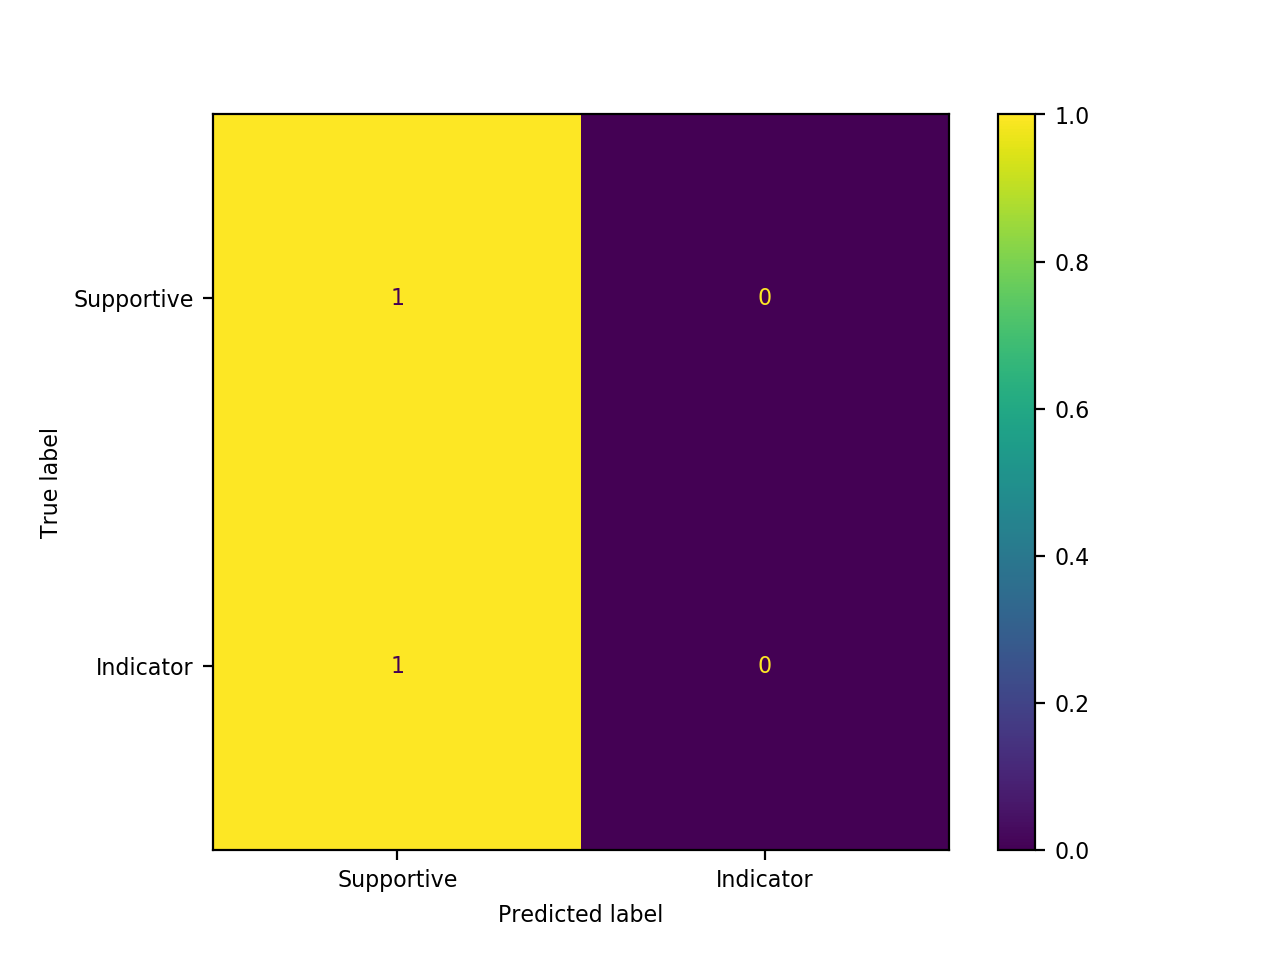
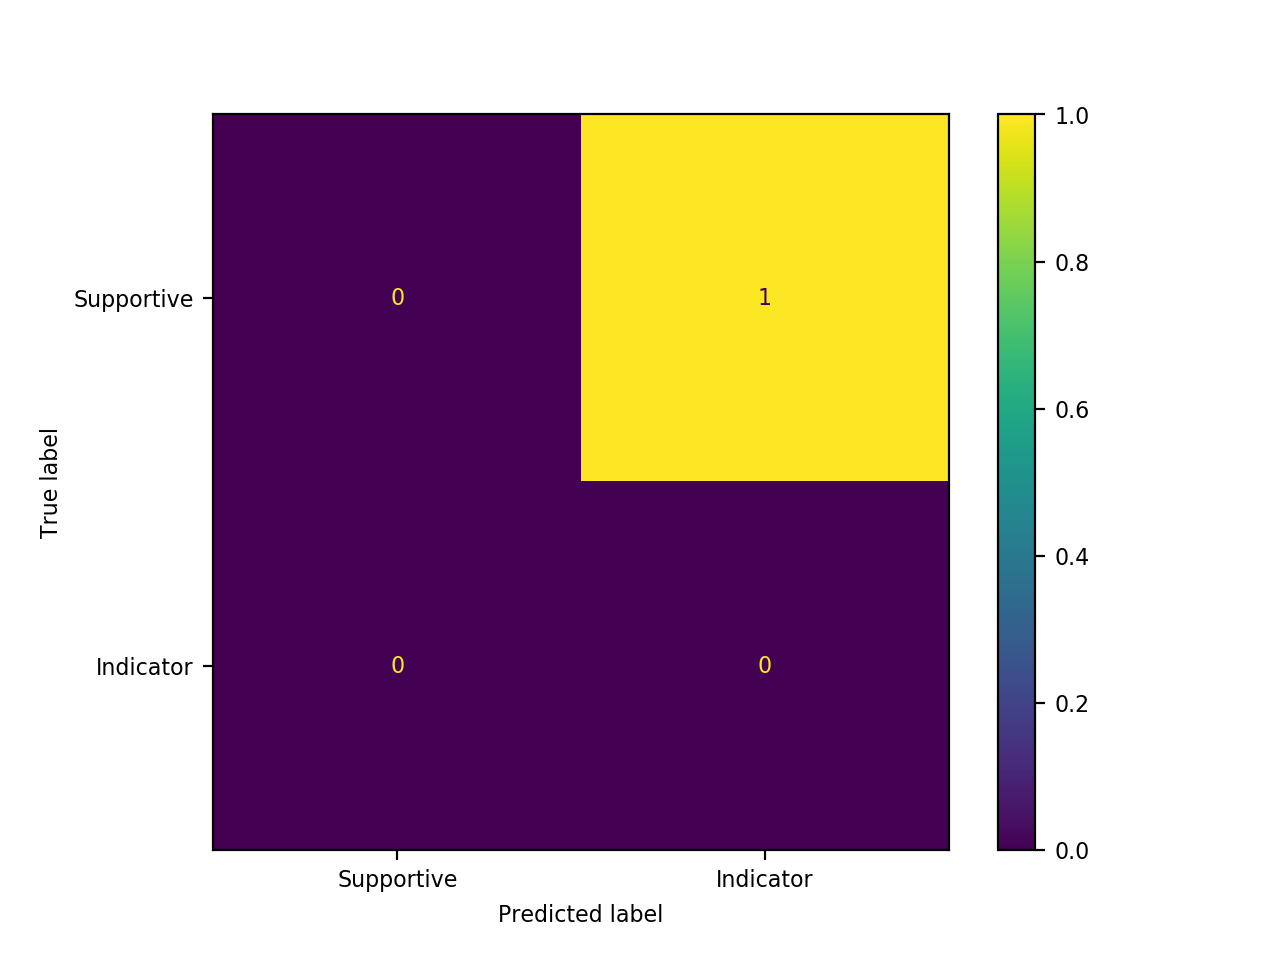
SVM, FFNN, and CNN are all running

diff --git a/main.py b/main.py
@@ -25,12 +25,13 @@ from sklearn import metrics
 import random
 from collections import Counter
 import sys
+from sklearn import svm
 
 from models import *
 
-DATA_SIZE = 10
+DATA_SIZE = 5
 NUM_EPOCHS = 3
-MODEL_CHOICE = "FFNN"
+MODEL_CHOICE = "SVM-RBF"
 
 if(len(sys.argv)!=1):
 	DATA_SIZE = int(sys.argv[1])
@@ -44,6 +45,8 @@ if(len(sys.argv)!=1):
 
 PATH_OUTPUT = "."
 BATCH_SIZE = 4
+if(MODEL_CHOICE=="FFNN"):
+	BATCH_SIZE = 1
 USE_CUDA = True
 NUM_WORKERS = 0
 save_file = '{}_{}.pth'.format(MODEL_CHOICE,NUM_EPOCHS)
@@ -122,14 +125,13 @@ class MyDataset():
 		self.y=cut_df.iloc[:,2].values
 		self.y=[string_to_num[i] for i in self.y]
 		self.y_train=torch.tensor(self.y,dtype=torch.float64)
-		print("self.y_train: {}".format(self.y_train.size()))
 	def __len__(self):
 		return len(self.y_train)
 	def __getitem__(self,idx):
 		return self.x_train[idx],self.y_train[idx]
-	def x(self):
-		return self.x_train
-	def y(self):
+	def get_x(self):
+		return self.x_train.detach().cpu().numpy()
+	def get_y(self):
 		return self.y
 
 def compute_batch_accuracy(output, target):
@@ -178,17 +180,25 @@ def train(model_param, device, data_loader, criterion, optimizer, epoch, print_f
 		print("target")
 		print(target)
 		print(target.size())
-		if(target.size()==torch.Size([1])):
-			target = torch.unsqueeze(target,1)
+		# if(target.size()==torch.Size([1])):
+		# 	target = torch.unsqueeze(target,1)
+		print("1")
 		loss = criterion(output, target.long())
 		assert not np.isnan(loss.item()), 'Model diverged with loss = NaN'
+		print("1")
 		loss.backward()
+		print("2")
 		optimizer.step()
+		print("3")
 		# measure elapsed time
 		batch_time.update(time.time() - end)
+		print("4")
 		end = time.time()
+		print("5")
 		losses.update(loss.item(), target.size(0))
+		print("6")
 		accuracy.update(compute_batch_accuracy(output, target).item(), target.size(0))
+		print("7")
 		if i % print_freq == 0:
 			print('Epoch: [{0}][{1}/{2}]\t'
 				  'Time {batch_time.val:.3f} ({batch_time.avg:.3f})\t'
@@ -220,8 +230,8 @@ def evaluate(model_param, device, data_loader, criterion, print_freq=10):
 			print("target")
 			print(target)
 			print(target.size())
-			if(target.size()==torch.Size([1])):
-				target = torch.unsqueeze(target,1)
+			# if(target.size()==torch.Size([1])):
+			# 	target = torch.unsqueeze(target,1)
 			loss = criterion(output, target.long())
 			# measure elapsed time
 			batch_time.update(time.time() - end)
@@ -284,11 +294,11 @@ if device.type == "cuda":
 
 model_used = ""
 if(MODEL_CHOICE=="SVM-RBF"):
-	model_used = MySVM(MyDataset().x(),kernel='rbf')
+	model_used = ""
 elif(MODEL_CHOICE=="SVM-L"):
-	model_used = MySVM(MyDataset().x(),kernel='linear')
+	model_used = ""
 elif(MODEL_CHOICE=="RF"):
-	model_used = MyRF()
+	model_used = ""
 elif(MODEL_CHOICE=="FFNN"):
 	model_used = MyFFNN(5,longest_post_len)
 elif(MODEL_CHOICE=="CNN"):
@@ -297,11 +307,11 @@ else:
 	print("BAD MODEL NAME")
 	exit()
 
-criterion = nn.CrossEntropyLoss()
-optimizer = optim.Adam(model_used.parameters(),lr=0.001)
-
-model_used.to(device)
-criterion.to(device)
+if(MODEL_CHOICE=='CNN' or MODEL_CHOICE=='FFNN'):
+	criterion = nn.CrossEntropyLoss()
+	optimizer = optim.Adam(model_used.parameters(),lr=0.001)
+	model_used.to(device)
+	criterion.to(device)
 
 def fold_testing(fold=5):
 
@@ -334,40 +344,65 @@ def fold_testing(fold=5):
 		test_ds = MyDataset(start,test_len)
 		start = start + test_len
 
-		print("len(train_ds.y) {}".format(len(train_ds.y)))
-		print("len(test_ds.y) {}".format(len(test_ds.y)))
-		print("sum(test_ds.y) {}".format(sum(test_ds.y)))
+		print("len(train_ds.get_y) {}".format(len(train_ds.get_y())))
+		print("len(test_ds.get_y) {}".format(len(test_ds.get_y())))
+		print("sum(test_ds.get_y) {}".format(sum(test_ds.get_y())))
 
-		train_loader = DataLoader(train_ds, batch_size=BATCH_SIZE, shuffle=True, num_workers=NUM_WORKERS)
-		test_loader = DataLoader(test_ds, batch_size=BATCH_SIZE, shuffle=True, num_workers=NUM_WORKERS)
+		if(MODEL_CHOICE=='CNN' or MODEL_CHOICE=='FFNN'):
+			train_loader = DataLoader(train_ds, batch_size=BATCH_SIZE, shuffle=True, num_workers=NUM_WORKERS)
+			test_loader = DataLoader(test_ds, batch_size=BATCH_SIZE, shuffle=True, num_workers=NUM_WORKERS)
 
-		print("train_loader")
+			print("train_loader")
 
-		for epoch in range(NUM_EPOCHS):
-			print("epoch: {}".format(epoch))
+			for epoch in range(NUM_EPOCHS):
+				print("epoch: {}".format(epoch))
 
-			train_loss, train_accuracy = train(model_used, device, train_loader, criterion, optimizer, epoch)
-			test_loss, test_accuracy, test_results = evaluate(model_used, device, test_loader, criterion)
+				train_loss, train_accuracy = train(model_used, device, train_loader, criterion, optimizer, epoch)
+				test_loss, test_accuracy, test_results = evaluate(model_used, device, test_loader, criterion)
 
-			train_losses.append(train_loss)
-			test_losses.append(test_loss)
+				train_losses.append(train_loss)
+				test_losses.append(test_loss)
 
-			train_accuracies.append(train_accuracy)
-			test_accuracies.append(test_accuracy)
+				train_accuracies.append(train_accuracy)
+				test_accuracies.append(test_accuracy)
 
-			print("test_accuracy")
-			print(test_accuracy)
-			print("best_val_acc")
-			print(best_val_acc)
-			is_best = test_accuracy >= best_val_acc
-			if is_best:
-				best_val_acc = test_accuracy
-				torch.save(model_used, os.path.join(PATH_OUTPUT, save_file), _use_new_zipfile_serialization=False)
+				print("test_accuracy")
+				print(test_accuracy)
+				print("best_val_acc")
+				print(best_val_acc)
+				is_best = test_accuracy >= best_val_acc
+				if is_best:
+					best_val_acc = test_accuracy
+					torch.save(model_used, os.path.join(PATH_OUTPUT, save_file), _use_new_zipfile_serialization=False)
 
-		plot_learning_curves(train_losses, test_losses, train_accuracies, test_accuracies)
+			plot_learning_curves(train_losses, test_losses, train_accuracies, test_accuracies)
+			best_model_used = torch.load(os.path.join(PATH_OUTPUT, save_file))
+			test_loss, test_accuracy, test_results = evaluate(best_model_used, device, test_loader, criterion)
 
-		best_model_used = torch.load(os.path.join(PATH_OUTPUT, save_file))
-		test_loss, test_accuracy, test_results = evaluate(best_model_used, device, test_loader, criterion)
+			print("test_results")
+			print(test_results)
+
+		elif(MODEL_CHOICE[0:3]=='SVM'):
+			print("train_ds.get_x()")
+			print(train_ds.get_x())
+			print("train_ds.get_y()")
+			print(train_ds.get_y())
+			X = train_ds.get_x()
+			X = X.reshape(len(X),longest_post_len*300)
+			print("X")
+			print(X)
+			print(X.shape)
+			y = train_ds.get_y()
+			clf = svm.SVC(decision_function_shape='ovo')
+			clf.fit(X, y)
+			predictions = clf.predict(test_ds.get_x().reshape(len(test_ds.get_x()),longest_post_len*300))
+			print("test_ds.get_y()")
+			print(test_ds.get_y())
+			print("predictions")
+			print(predictions)
+			test_results = list(zip(test_ds.get_y(),predictions))
+			print("test_results")
+			print(test_results)
 
 		plot_confusion_matrix(test_results, string_to_num.keys())
 

diff --git a/models.py b/models.py
@@ -35,7 +35,7 @@ from torchbearer.callbacks import L2WeightDecay, ExponentialLR
 class MySVM(nn.Module):
 	"""Support Vector Machine"""
 
-	def __init__(self, train_data_x, kernel='rbf',
+	def __init__(self, train_data_x, kernel, num_classes=5,
 				gamma_init=1.0, train_gamma=True):
 		super(MySVM,self).__init__()
 
@@ -43,17 +43,17 @@ class MySVM(nn.Module):
 
 		if kernel == 'linear':
 			self._kernel = self.linear
-			self._num_c = 300
+			self._num_c = train_data_x.size(1) * 300
 		elif kernel == 'rbf':
 			self._kernel = self.rbf
-			self._num_c = 300
+			self._num_c = train_data_x.size(0)
 			self._gamma = torch.nn.Parameter(torch.FloatTensor([gamma_init]),
 											 requires_grad=train_gamma)
 
-		self._w = torch.nn.Linear(in_features=self._num_c, out_features=1)
+		self._w = torch.nn.Linear(in_features=self._num_c, out_features=num_classes)
 
 	def rbf(self, x, gamma=1):
-		y = self._train_data_x.repeat(x.size(0), 1, 1)
+		y = self._train_data_x.repeat(self._train_data_x.size(0), 1, 1)
 		return torch.exp(-self._gamma*((x[:,None]-y)**2).sum(dim=2))
 
 	@staticmethod
@@ -62,6 +62,9 @@ class MySVM(nn.Module):
 
 	def forward(self, x):
 		# h = x.matmul(self.w.t()) + self.b
+		print('x')
+		print(x)
+		print(x.size())
 		y = self._kernel(x)
 		y = self._w(y)
 		return y
